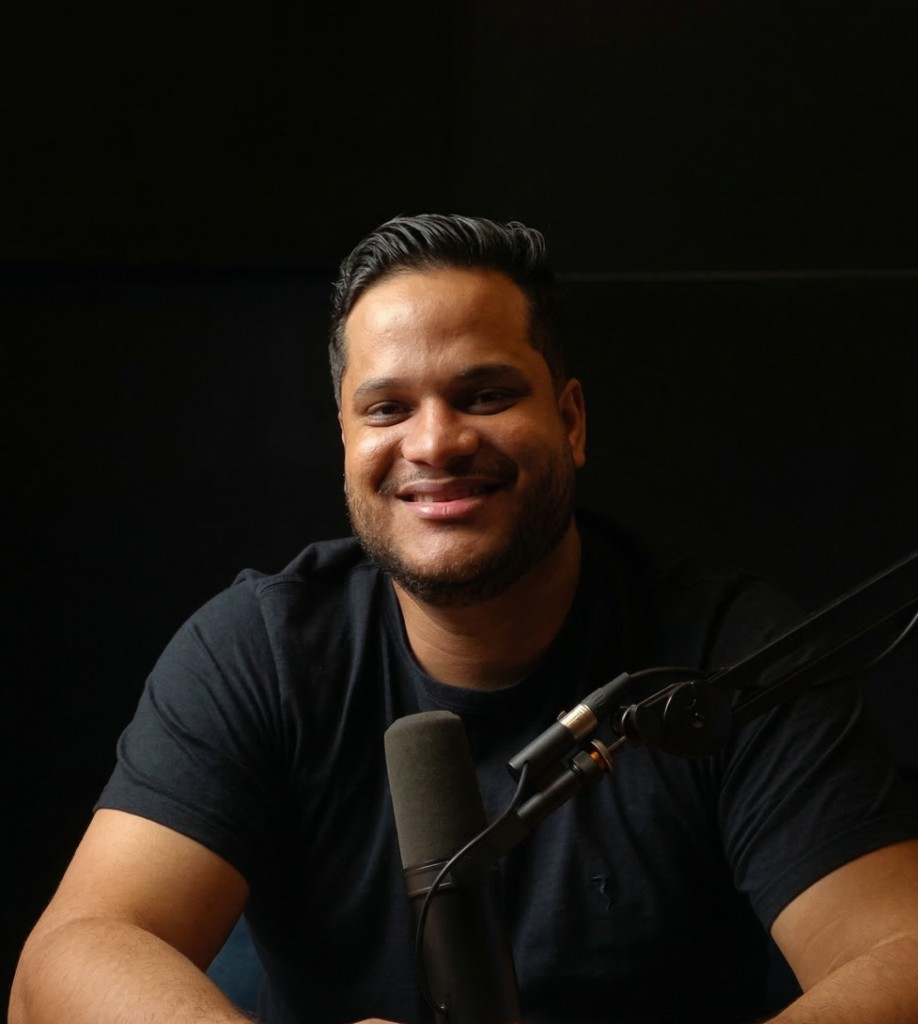
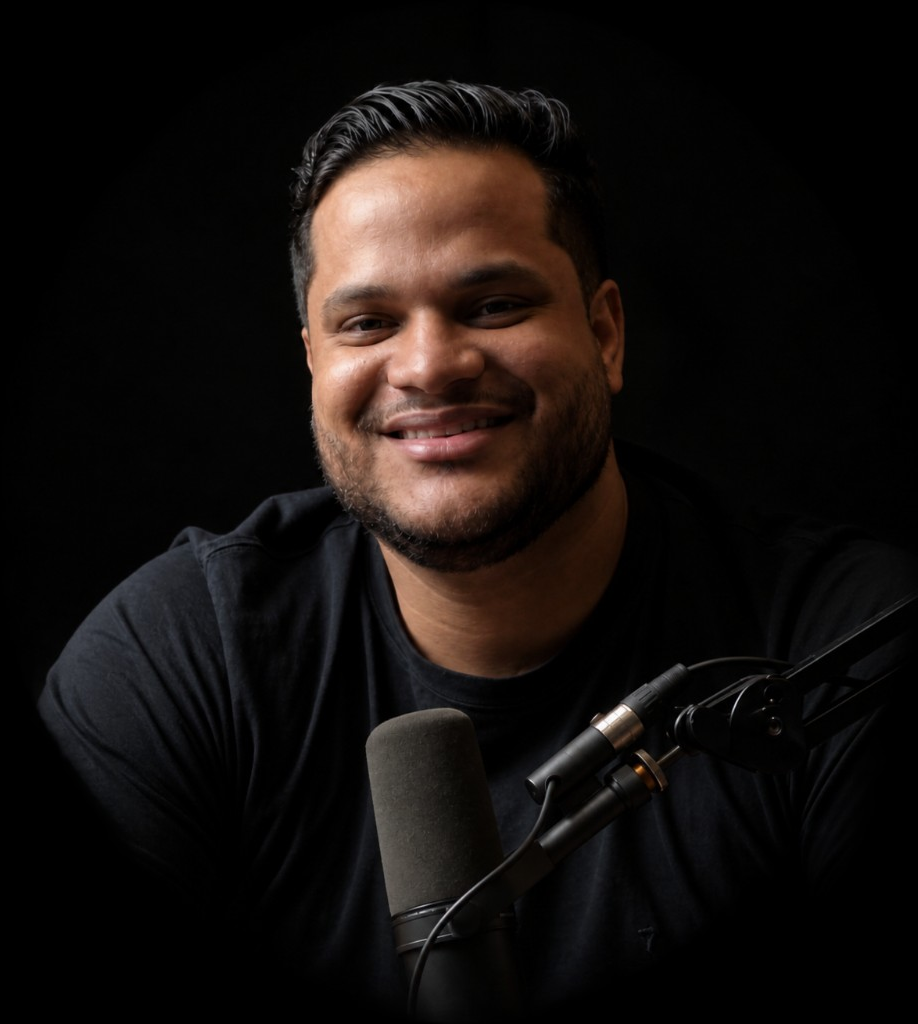
feat(hero): destaca o currículo e atualiza a foto de perfil
O botão Ver currículo passa a ter o mesmo peso do CTA principal, e a foto do card usa o retrato mais equilibrado.

diff --git a/src/app/globals.css b/src/app/globals.css
@@ -950,8 +950,22 @@ h1 { font-size: clamp(58px, 7vw, 104px); line-height: .94; letter-spacing: -.065
 h1 em,
 h2 em { font-family: inherit; font-style: normal; font-weight: inherit; }
 .hero-copy > p { max-width: 660px; margin: 34px 0 32px; color: var(--muted); font-size: 20px; line-height: 1.5; }
-.button { padding: 13px 19px; border-radius: 999px; text-transform: none; font-size: 14px; font-weight: 600; transition: transform .25s ease, opacity .25s ease, background .25s ease; }
-.button.ghost { border-color: transparent; background: var(--surface); }
+.button { padding: 13px 19px; border-radius: 999px; text-transform: none; font-size: 14px; font-weight: 600; transition: transform .25s ease, background .25s ease, color .25s ease, border-color .25s ease, box-shadow .25s ease; }
+.button.ghost {
+  border: 1.5px solid var(--ink);
+  background: #fff;
+  color: var(--ink);
+  box-shadow: 0 8px 20px rgba(0, 0, 0, 0.06);
+}
+.button.ghost:hover {
+  background: var(--ink);
+  color: #fff;
+  border-color: var(--ink);
+}
+.button:focus-visible {
+  outline: 2px solid var(--ink);
+  outline-offset: 3px;
+}
 .hero-visual { padding: 10px; border-radius: 30px; background: var(--surface); box-shadow: 0 24px 70px rgba(0,0,0,.12); }
 .portrait-wrap { border-radius: 22px; }
 .hero-visual img { height: 430px; border-radius: 22px; }

diff --git a/src/app/page.tsx b/src/app/page.tsx
@@ -6,6 +6,7 @@ import {
   ArrowDownRight,
   ArrowUpRight,
   Bot,
+  FileText,
   Braces,
   ChartNoAxesCombined,
   CheckCircle2,
@@ -127,11 +128,8 @@ export default function Home() {
             <a className="button primary" href="#projetos">
               Conhecer meu trabalho <ArrowDownRight size={18} />
             </a>
-            <a
-              className="button ghost"
-              href="/cv"
-            >
-              Ver currículo
+            <a className="button primary" href="/cv">
+              Ver currículo <FileText size={18} />
             </a>
           </div>
         </div>
@@ -140,8 +138,8 @@ export default function Home() {
             <Image
               src="/david.png"
               alt="David Pinho"
-              width={896}
-              height={896}
+              width={918}
+              height={1024}
               priority
             />
           </div>
